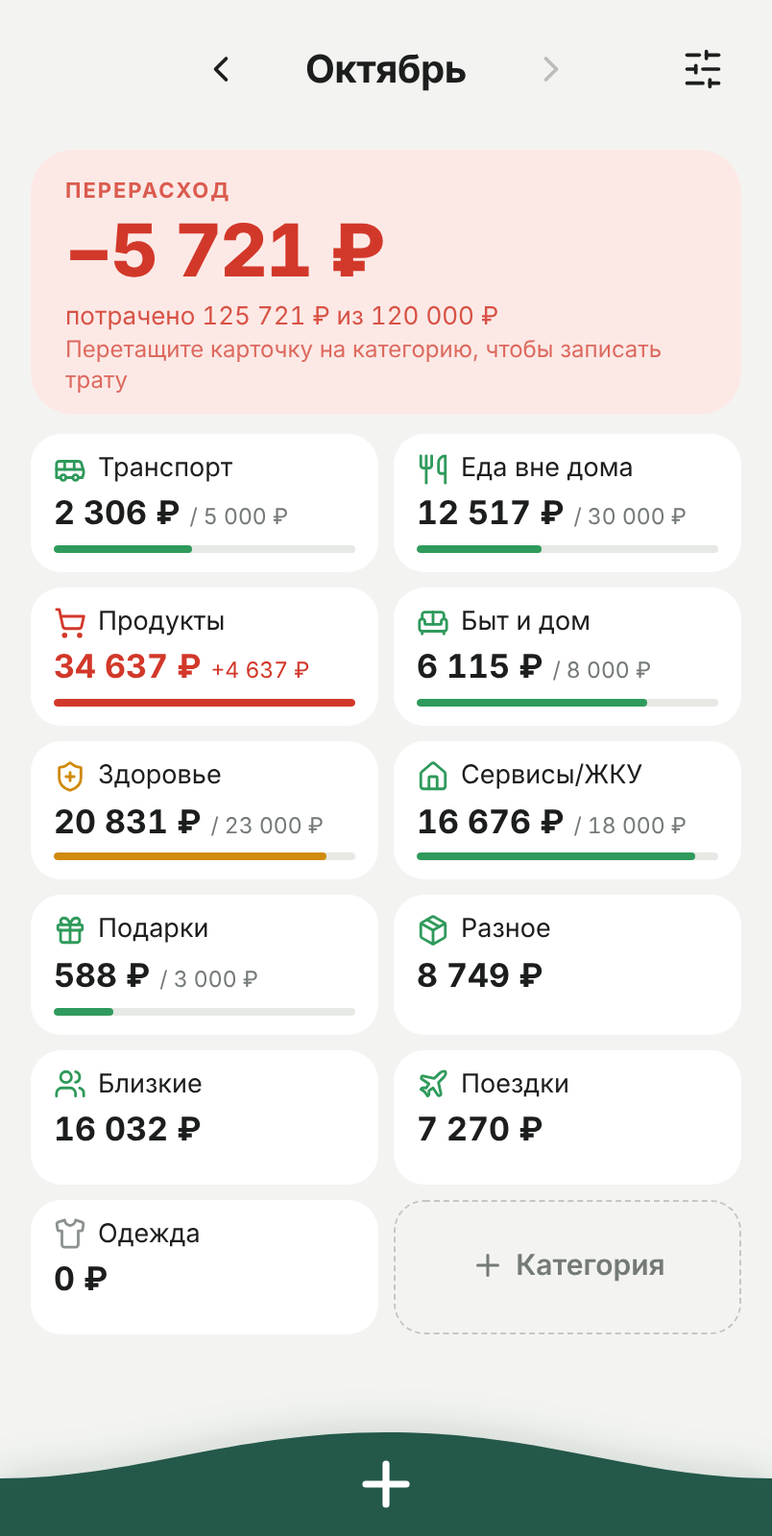
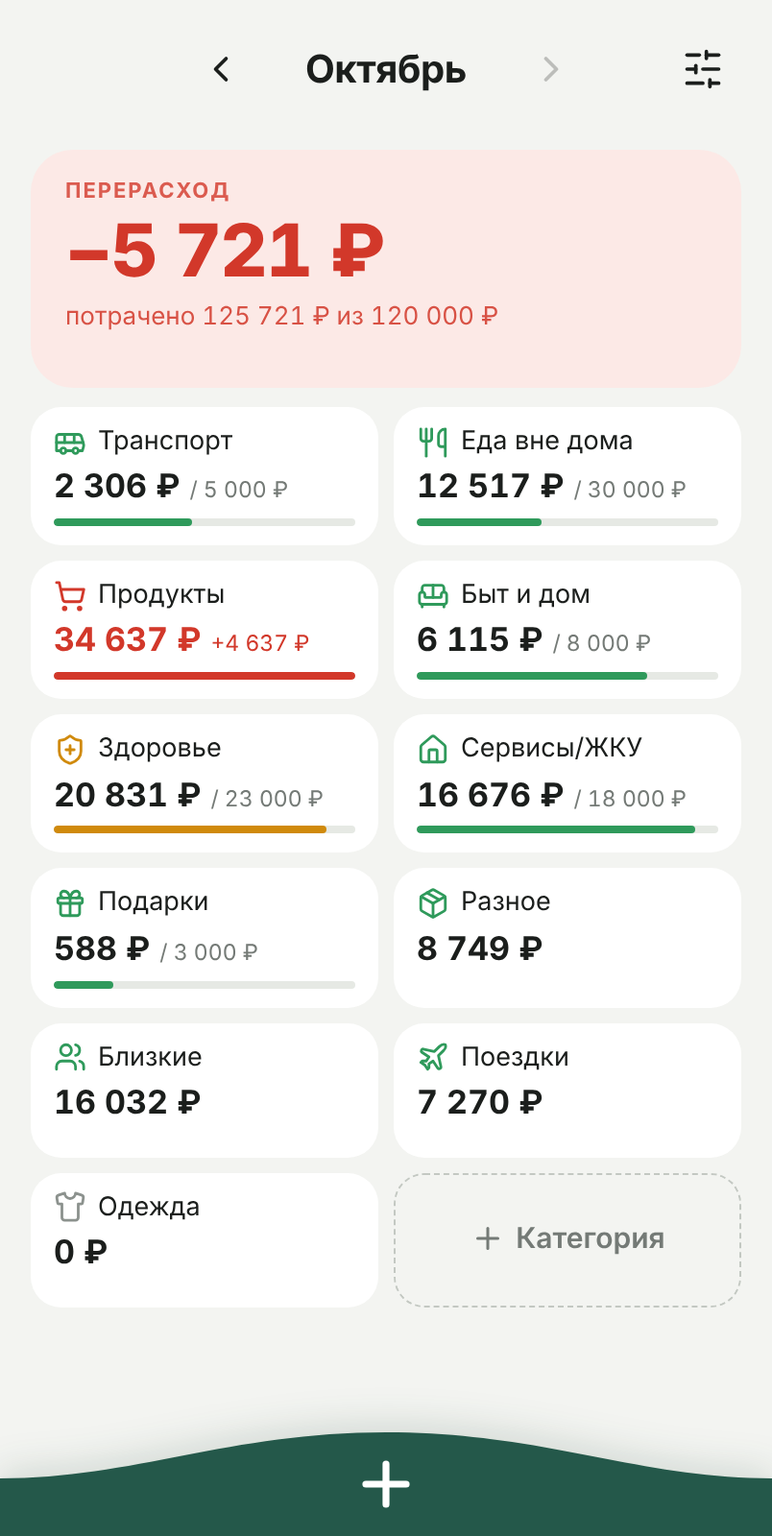
v15: подсказка-онбординг под карточкой, карточка 124 px, красная рамка цели при перерасходе
Claude-Session: https://claude.ai/code/session_01NUxBgaGxyd5sUVsPmVs4HK

diff --git a/index.html b/index.html
@@ -75,7 +75,7 @@ body.toasting .month { opacity: 0; }
    Water and the empty part are close in tone, so the text keeps one colour over both and is never cut by the waterline.
    Two looks, switched in settings (S.settings.card): dark (default) and light. */
 .budget { display: block; }
-.bcard { --top: #4A8070; --water: #1F4F42; --ink: #fff; position: relative; display: block; width: 100%; height: 138px; border-radius: 22px; overflow: hidden; text-align: left; background: var(--top); color: var(--ink); touch-action: none; user-select: none; -webkit-user-select: none; -webkit-touch-callout: none; transition: transform .15s, opacity .15s; }
+.bcard { --top: #4A8070; --water: #1F4F42; --ink: #fff; position: relative; display: block; width: 100%; height: 124px; border-radius: 22px; overflow: hidden; text-align: left; background: var(--top); color: var(--ink); touch-action: none; user-select: none; -webkit-user-select: none; -webkit-touch-callout: none; transition: transform .15s, opacity .15s; }
 .bcard.light { --top: var(--surface); --water: #BFD5C7; --ink: var(--level-ink); }
 .bcard.over { --top: var(--danger-tint); --ink: var(--danger); }
 .bcard .water { position: absolute; left: 0; right: 0; bottom: 0; background: var(--water); }
@@ -83,7 +83,9 @@ body.toasting .month { opacity: 0; }
 .bcard .lab { font-size: 11px; letter-spacing: .09em; font-weight: 700; text-transform: uppercase; opacity: .8; }
 .bcard .big { font-family: var(--font-num); font-size: 38px; font-weight: 800; letter-spacing: -0.02em; line-height: 1.1; margin-top: 4px; font-variant-numeric: tabular-nums; white-space: nowrap; }
 .bcard .sp { font-size: 13px; margin-top: 4px; opacity: .85; font-variant-numeric: tabular-nums; }
-.bcard .hint { margin-top: auto; font-size: 12px; opacity: .72; line-height: 1.3; }
+/* onboarding hint under the card: shown until the first drag onto a category, at most on 3 different days (SPEC 3.3) */
+.onb { margin: 6px 4px 0; font-size: 13px; line-height: 1.3; color: var(--muted); transition: opacity .3s; }
+.onb.gone { opacity: 0; }
 .bcard.lifted { transform: scale(.97); opacity: .6; }
 .label { font-size: 12px; color: var(--muted); text-transform: uppercase; letter-spacing: .06em; font-weight: 600; }
 
@@ -114,6 +116,7 @@ body.toasting .month { opacity: 0; }
 .cat.add svg { width: 18px; height: 18px; }
 body.dragging .cat:not(.add) { box-shadow: 0 0 0 1.5px var(--line); }
 .cat.drop { box-shadow: 0 0 0 2px var(--accent) !important; transform: scale(1.03); }
+.cat.over.drop { box-shadow: 0 0 0 2px var(--danger) !important; }
 
 .ghost { position: fixed; left: 0; top: 0; width: 56px; height: 56px; margin: -28px 0 0 -28px; border-radius: 50%; background: var(--accent); color: var(--accent-ink); display: grid; place-items: center; font-size: 24px; font-weight: 700; pointer-events: none; z-index: 50; box-shadow: 0 8px 24px rgba(20,40,30,.3); }
 
@@ -618,7 +621,7 @@ function render() {
   const budget = limitAt(S.budget, view);
   const over = budget != null && total > budget;
   const left = budget == null ? null : budget - total;
-  const cardBody = (lab, big, sp) => `<span class="lab">${lab}</span><span class="big">${big}</span><span class="sp">${sp}</span><span class="hint">Перетащите карточку на категорию, чтобы записать трату</span>`;
+  const cardBody = (lab, big, sp) => `<span class="lab">${lab}</span><span class="big">${big}</span><span class="sp">${sp}</span>`;
   let body, level = null;
   if (budget == null) body = cardBody('Потрачено', rub(total), 'Бюджет на месяц не задан');
   else if (over) body = cardBody('Перерасход', '−' + rub(-left), `потрачено ${rub(total)} из ${rub(budget)}`);
@@ -626,7 +629,7 @@ function render() {
   $('#budget').innerHTML = `<button class="bcard ${S.settings.card === 'light' ? 'light' : ''} ${over ? 'over' : ''}" id="budget-src" aria-label="Добавить трату. Зажмите и перетащите на категорию">
     ${level != null ? `<span class="water" aria-hidden="true" style="height: ${(level * 100).toFixed(2)}%"></span>` : ''}
     <span class="layer">${body}</span>
-  </button>`;
+  </button>${onbShow ? '<p class="onb" id="onb">Зажмите карточку и перетащите на категорию</p>' : ''}`;
   setupDrag($('#budget-src'));
 
   // categories
@@ -646,6 +649,28 @@ function render() {
   }).join('') + `<button class="cat add" id="add-cat">${icon('plus')} Категория</button>`;
   $('#grid').querySelectorAll('[data-cat]').forEach((b) => b.onclick = () => openCategory(b.dataset.cat));
   $('#add-cat').onclick = () => openCategoryEdit(null);
+}
+
+/* ---------- onboarding hint ---------- */
+// Per device, not part of the data copy. Counts distinct days the app was opened; ends after the first drag or on day 4.
+const ONB_KEY = 'budget-onboarding';
+let onbShow = false;
+function onbInit() {
+  let o = null;
+  try { o = JSON.parse(localStorage.getItem(ONB_KEY)); } catch (_) {}
+  if (!o || !Array.isArray(o.days)) o = { days: [], done: false };
+  if (!o.done && !o.days.includes(today())) o.days.push(today());
+  if (o.days.length > 3) o.done = true;
+  try { localStorage.setItem(ONB_KEY, JSON.stringify(o)); } catch (_) {}
+  onbShow = !o.done;
+}
+function onbDone() {
+  if (!onbShow) return;
+  onbShow = false;
+  try { localStorage.setItem(ONB_KEY, JSON.stringify({ days: [], done: true })); } catch (_) {}
+  const el = $('#onb'); if (!el) return;
+  if (reduceMotion()) { el.remove(); return; }
+  el.classList.add('gone'); setTimeout(() => el.remove(), 320);
 }
 
 /* ---------- drag from budget ---------- */
@@ -690,7 +715,7 @@ function setupDrag(src) {
   src.addEventListener('pointerup', () => {
     if (!start) return;
     const { wasDragging, id } = finish();
-    if (wasDragging) { suppressClick = true; setTimeout(() => (suppressClick = false), 400); if (id) openTx({ catId: id }); }
+    if (wasDragging) { suppressClick = true; setTimeout(() => (suppressClick = false), 400); if (id) { onbDone(); openTx({ catId: id }); } }
   });
   src.addEventListener('pointercancel', finish);
   src.addEventListener('click', () => { if (suppressClick) { suppressClick = false; return; } openTx({}); });
@@ -1706,7 +1731,13 @@ if (window.visualViewport) {
 
 S = load();
 if (!Array.isArray(S.tags)) S.tags = [];
+onbInit();
 render();
+// iOS keeps the PWA alive for days: count a new day when it comes back to the screen
+document.addEventListener('visibilitychange', () => {
+  if (document.hidden || !onbShow) return;
+  onbInit(); if (!onbShow) { const el = $('#onb'); el && el.remove(); }
+});
 try { navigator.storage && navigator.storage.persist && navigator.storage.persist(); } catch (_) {}
 if ('serviceWorker' in navigator && document.documentElement.classList.contains('pwa')) {
   navigator.serviceWorker.register('sw.js').catch(() => {});

diff --git a/src/app.html b/src/app.html
@@ -61,7 +61,7 @@ body.toasting .month { opacity: 0; }
    Water and the empty part are close in tone, so the text keeps one colour over both and is never cut by the waterline.
    Two looks, switched in settings (S.settings.card): dark (default) and light. */
 .budget { display: block; }
-.bcard { --top: #4A8070; --water: #1F4F42; --ink: #fff; position: relative; display: block; width: 100%; height: 138px; border-radius: 22px; overflow: hidden; text-align: left; background: var(--top); color: var(--ink); touch-action: none; user-select: none; -webkit-user-select: none; -webkit-touch-callout: none; transition: transform .15s, opacity .15s; }
+.bcard { --top: #4A8070; --water: #1F4F42; --ink: #fff; position: relative; display: block; width: 100%; height: 124px; border-radius: 22px; overflow: hidden; text-align: left; background: var(--top); color: var(--ink); touch-action: none; user-select: none; -webkit-user-select: none; -webkit-touch-callout: none; transition: transform .15s, opacity .15s; }
 .bcard.light { --top: var(--surface); --water: #BFD5C7; --ink: var(--level-ink); }
 .bcard.over { --top: var(--danger-tint); --ink: var(--danger); }
 .bcard .water { position: absolute; left: 0; right: 0; bottom: 0; background: var(--water); }
@@ -69,7 +69,9 @@ body.toasting .month { opacity: 0; }
 .bcard .lab { font-size: 11px; letter-spacing: .09em; font-weight: 700; text-transform: uppercase; opacity: .8; }
 .bcard .big { font-family: var(--font-num); font-size: 38px; font-weight: 800; letter-spacing: -0.02em; line-height: 1.1; margin-top: 4px; font-variant-numeric: tabular-nums; white-space: nowrap; }
 .bcard .sp { font-size: 13px; margin-top: 4px; opacity: .85; font-variant-numeric: tabular-nums; }
-.bcard .hint { margin-top: auto; font-size: 12px; opacity: .72; line-height: 1.3; }
+/* onboarding hint under the card: shown until the first drag onto a category, at most on 3 different days (SPEC 3.3) */
+.onb { margin: 6px 4px 0; font-size: 13px; line-height: 1.3; color: var(--muted); transition: opacity .3s; }
+.onb.gone { opacity: 0; }
 .bcard.lifted { transform: scale(.97); opacity: .6; }
 .label { font-size: 12px; color: var(--muted); text-transform: uppercase; letter-spacing: .06em; font-weight: 600; }
 
@@ -100,6 +102,7 @@ body.toasting .month { opacity: 0; }
 .cat.add svg { width: 18px; height: 18px; }
 body.dragging .cat:not(.add) { box-shadow: 0 0 0 1.5px var(--line); }
 .cat.drop { box-shadow: 0 0 0 2px var(--accent) !important; transform: scale(1.03); }
+.cat.over.drop { box-shadow: 0 0 0 2px var(--danger) !important; }
 
 .ghost { position: fixed; left: 0; top: 0; width: 56px; height: 56px; margin: -28px 0 0 -28px; border-radius: 50%; background: var(--accent); color: var(--accent-ink); display: grid; place-items: center; font-size: 24px; font-weight: 700; pointer-events: none; z-index: 50; box-shadow: 0 8px 24px rgba(20,40,30,.3); }
 
@@ -601,7 +604,7 @@ function render() {
   const budget = limitAt(S.budget, view);
   const over = budget != null && total > budget;
   const left = budget == null ? null : budget - total;
-  const cardBody = (lab, big, sp) => `<span class="lab">${lab}</span><span class="big">${big}</span><span class="sp">${sp}</span><span class="hint">Перетащите карточку на категорию, чтобы записать трату</span>`;
+  const cardBody = (lab, big, sp) => `<span class="lab">${lab}</span><span class="big">${big}</span><span class="sp">${sp}</span>`;
   let body, level = null;
   if (budget == null) body = cardBody('Потрачено', rub(total), 'Бюджет на месяц не задан');
   else if (over) body = cardBody('Перерасход', '−' + rub(-left), `потрачено ${rub(total)} из ${rub(budget)}`);
@@ -609,7 +612,7 @@ function render() {
   $('#budget').innerHTML = `<button class="bcard ${S.settings.card === 'light' ? 'light' : ''} ${over ? 'over' : ''}" id="budget-src" aria-label="Добавить трату. Зажмите и перетащите на категорию">
     ${level != null ? `<span class="water" aria-hidden="true" style="height: ${(level * 100).toFixed(2)}%"></span>` : ''}
     <span class="layer">${body}</span>
-  </button>`;
+  </button>${onbShow ? '<p class="onb" id="onb">Зажмите карточку и перетащите на категорию</p>' : ''}`;
   setupDrag($('#budget-src'));
 
   // categories
@@ -629,6 +632,28 @@ function render() {
   }).join('') + `<button class="cat add" id="add-cat">${icon('plus')} Категория</button>`;
   $('#grid').querySelectorAll('[data-cat]').forEach((b) => b.onclick = () => openCategory(b.dataset.cat));
   $('#add-cat').onclick = () => openCategoryEdit(null);
+}
+
+/* ---------- onboarding hint ---------- */
+// Per device, not part of the data copy. Counts distinct days the app was opened; ends after the first drag or on day 4.
+const ONB_KEY = 'budget-onboarding';
+let onbShow = false;
+function onbInit() {
+  let o = null;
+  try { o = JSON.parse(localStorage.getItem(ONB_KEY)); } catch (_) {}
+  if (!o || !Array.isArray(o.days)) o = { days: [], done: false };
+  if (!o.done && !o.days.includes(today())) o.days.push(today());
+  if (o.days.length > 3) o.done = true;
+  try { localStorage.setItem(ONB_KEY, JSON.stringify(o)); } catch (_) {}
+  onbShow = !o.done;
+}
+function onbDone() {
+  if (!onbShow) return;
+  onbShow = false;
+  try { localStorage.setItem(ONB_KEY, JSON.stringify({ days: [], done: true })); } catch (_) {}
+  const el = $('#onb'); if (!el) return;
+  if (reduceMotion()) { el.remove(); return; }
+  el.classList.add('gone'); setTimeout(() => el.remove(), 320);
 }
 
 /* ---------- drag from budget ---------- */
@@ -673,7 +698,7 @@ function setupDrag(src) {
   src.addEventListener('pointerup', () => {
     if (!start) return;
     const { wasDragging, id } = finish();
-    if (wasDragging) { suppressClick = true; setTimeout(() => (suppressClick = false), 400); if (id) openTx({ catId: id }); }
+    if (wasDragging) { suppressClick = true; setTimeout(() => (suppressClick = false), 400); if (id) { onbDone(); openTx({ catId: id }); } }
   });
   src.addEventListener('pointercancel', finish);
   src.addEventListener('click', () => { if (suppressClick) { suppressClick = false; return; } openTx({}); });
@@ -1689,7 +1714,13 @@ if (window.visualViewport) {
 
 S = load();
 if (!Array.isArray(S.tags)) S.tags = [];
+onbInit();
 render();
+// iOS keeps the PWA alive for days: count a new day when it comes back to the screen
+document.addEventListener('visibilitychange', () => {
+  if (document.hidden || !onbShow) return;
+  onbInit(); if (!onbShow) { const el = $('#onb'); el && el.remove(); }
+});
 try { navigator.storage && navigator.storage.persist && navigator.storage.persist(); } catch (_) {}
 if ('serviceWorker' in navigator && document.documentElement.classList.contains('pwa')) {
   navigator.serviceWorker.register('sw.js').catch(() => {});

diff --git a/sw.js b/sw.js
@@ -1,5 +1,5 @@
 // Generated by build.py. VERSION changes on every release so phones pick up the new files.
-const VERSION = 'v14';
+const VERSION = 'v15';
 const FILES = ['./', './index.html', './manifest.json', './icon-180.png', './icon-192.png', './icon-512.png'];
 self.addEventListener('install', (e) => { e.waitUntil(caches.open(VERSION).then((c) => c.addAll(FILES))); self.skipWaiting(); });
 self.addEventListener('activate', (e) => { e.waitUntil(caches.keys().then((ks) => Promise.all(ks.filter((k) => k !== VERSION).map((k) => caches.delete(k))))); self.clients.claim(); });

diff --git a/docs/shoot.py b/docs/shoot.py
@@ -53,12 +53,12 @@ def snap(pg, name, clip=None):
 
 with sync_playwright() as p:
     b = p.chromium.launch()
-    def page(d):
+    def page(d, onboarding=False):
         ctx = b.new_context(viewport={'width': W, 'height': H}, device_scale_factor=2, has_touch=True,
                             locale='ru-RU', timezone_id='Europe/Moscow')
         pg = ctx.new_page()
         pg.clock.set_fixed_time(NOW)
-        pg.add_init_script(f"try{{if(!sessionStorage.seeded){{localStorage.setItem('monthly-budget-v1', {json.dumps(json.dumps(d))});sessionStorage.seeded=1}}}}catch(e){{}}")
+        pg.add_init_script(f"try{{if(!sessionStorage.seeded){{localStorage.setItem('monthly-budget-v1', {json.dumps(json.dumps(d))});{'' if onboarding else "localStorage.setItem('budget-onboarding', JSON.stringify({days: [], done: true}));"}sessionStorage.seeded=1}}}}catch(e){{}}")
         pg.goto(URL); pg.wait_for_timeout(400)
         return pg
     key = lambda pg, k: pg.locator(f'#tx-keys [data-k="{k}"]').dispatch_event('pointerdown')
@@ -69,6 +69,7 @@ with sync_playwright() as p:
     pg = page(data(budget=120000)); snap(pg, '02-main-overrun')
     pg = page(data(tx=False)); snap(pg, '03-main-month-start')
     pg = page(data(card='light')); snap(pg, '23-main-light')
+    pg = page(data(), onboarding=True); snap(pg, '24-main-onboarding')
 
     # drag the budget card onto a category
     pg = page(data())

diff --git a/build.py b/build.py
@@ -7,7 +7,7 @@ Bump VERSION on every release: phones only pick up new files when the service wo
 import json, pathlib, re
 from PIL import Image, ImageDraw
 
-VERSION = 'v14'
+VERSION = 'v15'
 ROOT = pathlib.Path(__file__).parent
 app = (ROOT / 'src/app.html').read_text()
 

diff --git a/docs/SPEC.md b/docs/SPEC.md
@@ -1,6 +1,6 @@
 # Спецификация: Месячный бюджет
 
-Текущая версия: **v14** (31.10.2026). Документ описывает, как приложение работает сейчас. Почему сделано именно так — в [DECISIONS.md](DECISIONS.md), как выглядит — в [DESIGN.md](DESIGN.md), что менялось — в [CHANGELOG.md](CHANGELOG.md).
+Текущая версия: **v15** (31.10.2026). Документ описывает, как приложение работает сейчас. Почему сделано именно так — в [DECISIONS.md](DECISIONS.md), как выглядит — в [DESIGN.md](DESIGN.md), что менялось — в [CHANGELOG.md](CHANGELOG.md).
 
 Скриншоты в `screens/` делает `docs/shoot.py` из кода на примерах данных, на дату пн 26.10.2026.
 
@@ -85,7 +85,7 @@
 
 ## 3. Главный экран
 
-<img src="screens/01-main.png" width="240"> <img src="screens/02-main-overrun.png" width="240"> <img src="screens/03-main-month-start.png" width="240"> <img src="screens/23-main-light.png" width="240">
+<img src="screens/01-main.png" width="240"> <img src="screens/02-main-overrun.png" width="240"> <img src="screens/03-main-month-start.png" width="240"> <img src="screens/23-main-light.png" width="240"> <img src="screens/24-main-onboarding.png" width="240">
 
 Слева направо: обычный месяц; перерасход общего бюджета; начало месяца без трат.
 
@@ -105,13 +105,17 @@
 
 ### 3.3. Карточка бюджета — «уровень»
 
-Высота 138 px. Это источник перетаскивания и кнопка ввода траты.
+Высота 124 px. Это источник перетаскивания и кнопка ввода траты.
 
 - **Заливка («вода»).** Слой снизу показывает долю остатка: `остаток / бюджет`. В начале месяца без трат вода заполняет всю карточку, по мере трат уровень опускается.
 - **Вода и пустая часть близки по тону,** поэтому текст одного цвета читается на обеих и линия воды его не разрезает. Два вида, переключаются в настройках (раздел 9):
   - **тёмная** (по умолчанию): пустая часть `#4A8070`, вода `#1F4F42`, текст белый;
   - **светлая**: пустая часть белая, вода `#BFD5C7`, текст тёмный `--level-ink`.
-- **Содержимое:** «ОСТАЛОСЬ», крупно остаток, строка «потрачено 125 721 ₽ из 150 000 ₽», подсказка «Перетащите карточку на категорию, чтобы записать трату».
+- **Содержимое:** «ОСТАЛОСЬ», крупно остаток, строка «потрачено 125 721 ₽ из 150 000 ₽». Подсказки внутри карточки нет.
+- **Подсказка-онбординг под карточкой:** «Зажмите карточку и перетащите на категорию», 13 px, серая. Показывается, пока не выполнено одно из условий:
+  - первое успешное перетаскивание на категорию — подсказка сразу гаснет за 300 мс и больше не появляется;
+  - приложение открывали в 3 разных дня — на 4-й день подсказки уже нет.
+  Дни считаются при запуске и при возвращении приложения на экран. Счётчик хранится на устройстве (`localStorage` `budget-onboarding`) и в копию данных не входит. Нажатие на карточку (без перетаскивания) подсказку не убирает.
 - **Перерасход:** карточка розовая без заливки, «ПЕРЕРАСХОД», красное «−5 721 ₽».
 - **Бюджет не задан:** карточка без воды (цвет пустой части), «ПОТРАЧЕНО», сумма трат, «Бюджет на месяц не задан».
 - Цвет состояния (раздел 2.3) к карточке не применяется.
@@ -133,7 +137,7 @@
 
 <img src="screens/04-drag-to-category.png" width="240"> <img src="screens/05-expense-preset-category.png" width="240">
 
-Зажать карточку (250 мс) или сразу потянуть дальше 6 px. Карточка уменьшается и бледнеет, за пальцем идёт зелёный кружок «₽». Плитка под пальцем подсвечивается зелёной рамкой и увеличивается. Отпустить над плиткой — открывается ввод траты с этой категорией. Отпустить мимо — ничего.
+Зажать карточку (250 мс) или сразу потянуть дальше 6 px. Карточка уменьшается и бледнеет, за пальцем идёт зелёный кружок «₽». Плитка под пальцем подсвечивается рамкой 2 px и увеличивается: зелёной, а у категории с перерасходом — красной. Отпустить над плиткой — открывается ввод траты с этой категорией. Отпустить мимо — ничего.
 
 ### 3.6. Нижняя панель
 

diff --git a/docs/DECISIONS.md b/docs/DECISIONS.md
@@ -25,6 +25,9 @@
 - **Карточка бюджета — «уровень» с заливкой остатка, без отметок «где должен быть уровень сегодня».** Оранжевые отметки из макета убрали как лишние. (v6)
 - **Уровень на карточке приглушён: вода и пустая часть близки по тону, текст одного цвета.** Раньше светлый верх и тёмная вода были контрастными, текст менял цвет на линии воды и резался по буквам, цифры плохо читались. Сравнивали: текст на «стекле» поверх уровня (Г, в т. ч. с рамкой 12–26 px), уровень — обводка карточки, кривая остатка за месяц, текст-поплавок над линией воды, тонкая линия уровня (перечёркивала цифры). (v14)
 - **Два вида карточки — тёмная и светлая, переключатель в настройках, по умолчанию тёмная.** Владелец не выбрал один: тёмная фирменная, светлая спокойнее. Светлая пустая часть белая, а не `#F1F4F1` из мокапа: иначе при малом остатке край карточки сливался с фоном. (v14)
+- **Подсказка «перетащите» — онбординг под карточкой, а не текст внутри неё.** В карточке она теснила цифры. Показываем, пока не было первого перетаскивания, но не дольше 3 разных дней с открытием приложения. Дни, а не запуски: iOS сама перезапускает PWA, три «запуска» могут случиться за вечер. Анимацию-демонстрацию жеста («₽» сам едет к плитке) отклонили. (v15)
+- **Карточка бюджета 124 px.** Сравнивали 138 (воздух, но сетка теснее), 124 и 112 (при малом остатке вода прилипает к строке «потрачено»). (v15)
+- **Рамка цели при перетаскивании на категорию с перерасходом — красная.** Предупреждает, что трата уходит в уже перерасходованную категорию. (v15)
 - **Плитки категорий в 2 столбца, иконка перед названием (вариант «Б»).** Сравнивали три варианта: без иконок, иконка перед названием, иконка в углу. (v6)
 - **Перетаскивается вся карточка бюджета, а не кружок.** (v6)
 - **Нижняя панель — «холм» во всю ширину, а не круглая кнопка.** Она уравновешивает шапку. (v2, оставлено в v6)

diff --git a/docs/DESIGN.md b/docs/DESIGN.md
@@ -31,6 +31,8 @@
 
 **Карточка бюджета** (переменные `--top`, `--water`, `--ink` на `.bcard`): тёмная — пустая часть `#4A8070`, вода `#1F4F42`, текст белый; светлая (`.bcard.light`) — пустая часть `--surface`, вода `#BFD5C7`, текст `--level-ink`; перерасход — `--danger-tint` без воды, текст `--danger`.
 
+**Рамка цели при перетаскивании:** 2 px `--accent`, у плитки с перерасходом `--danger`.
+
 **Цвета состояния** (`STATE_COLOR` в коде): нет трат `#8C928E`, в темпе `#2F9A5B`, чуть быстрее `#D08A0C`, перерасход или заметно быстрее `#D2382A`. Нейтральный цвет иконок в шторках — `#56605A`.
 
 **Теги:** кнопка пустая `--bg` / рамка `--line`; с тегом `#E7EFEA` / рамка и текст `#2F5446`; выбранная строка меню `#EEF3F0`.
@@ -65,7 +67,7 @@
 
 - **Поля по краям:** 16 px плюс safe area (`max(16px, env(safe-area-inset-*))`).
 - **Шапка:** 44 px; в PWA на 14 px ниже safe area.
-- **Карточка бюджета:** высота 138, скругление 22, отступы 14 / 18 / 12.
+- **Карточка бюджета:** высота 124, скругление 22, отступы 14 / 18 / 12. Подсказка-онбординг под ней: 13 px, `--muted`, отступ сверху 6, по бокам 4; гаснет за 300 мс.
 - **Плитка:** скругление 16, отступы 9 / 12 / 10, минимальная высота 70, зазор между плитками 8, полоска 4 px.
 - **Нижняя панель:** 56 px. SVG-форма `M0 56 V26 C70 26 118 2 200 2 C282 2 330 26 400 26 V56 Z`, растянутая по ширине. Плюс 36 px, толщина линии 2.4.
 - **Шторка:** скругление 22 сверху, высота до 92dvh, зазор между блоками 10 (форма траты) или 14 (остальные).

diff --git a/docs/CHANGELOG.md b/docs/CHANGELOG.md
@@ -2,6 +2,12 @@
 
 Номер версии = `VERSION` в `build.py` (имя кэша service worker). Даты — 2026 год.
 
+## v15 — 31.10 · Подсказка и карточка
+- Подсказка «Зажмите карточку и перетащите на категорию» переехала из карточки под неё и показывается как онбординг: до первого перетаскивания, не дольше 3 разных дней.
+- Карточка бюджета ниже: 124 px вместо 138.
+- При перетаскивании на категорию с перерасходом рамка плитки красная.
+- Новый скриншот `24-main-onboarding`; на остальных подсказки нет.
+
 ## v14 — 31.10 · Карточка бюджета
 - Уровень на карточке стал мягче: вода и пустая часть близки по тону, текст одного цвета и больше не режется линией воды.
 - В настройках — «Карточка бюджета: Тёмная / Светлая». По умолчанию тёмная.
